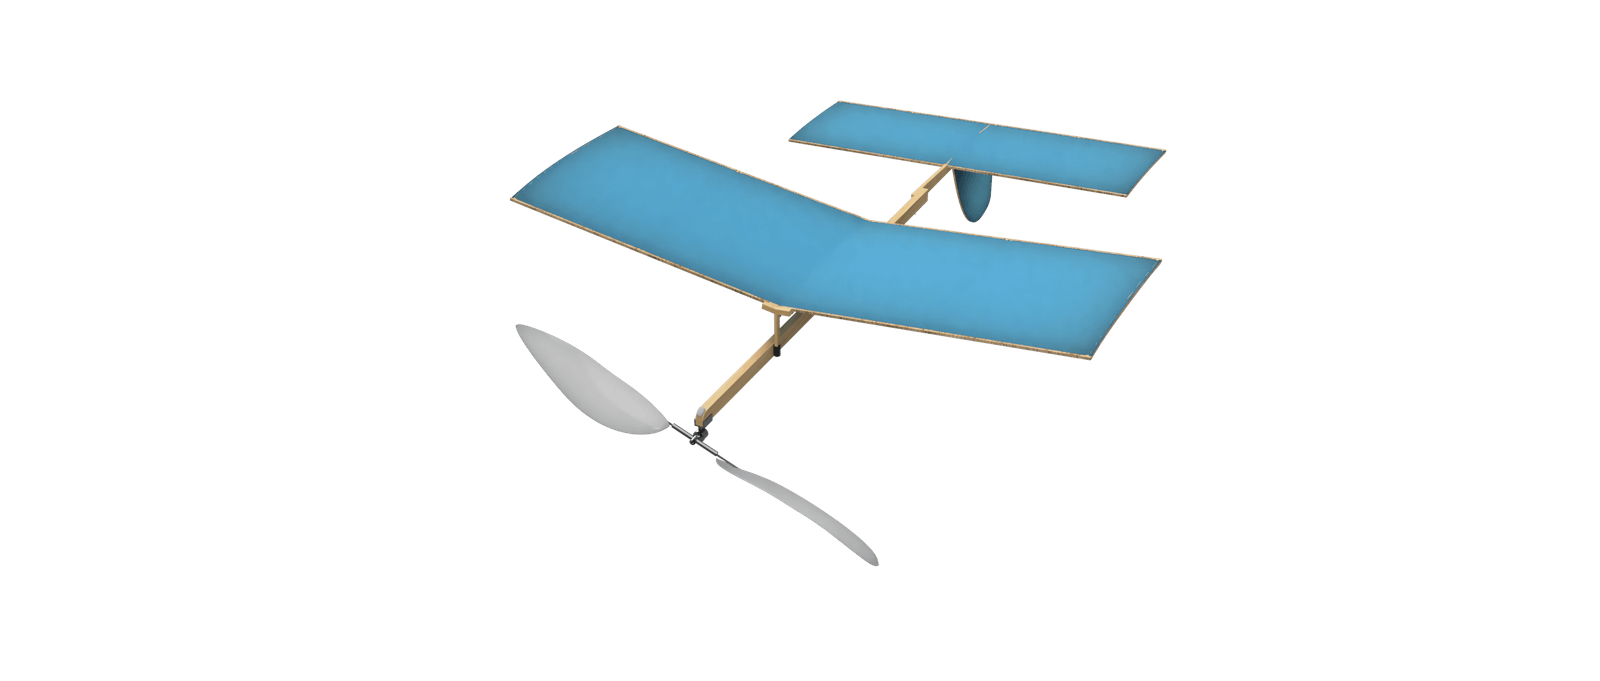
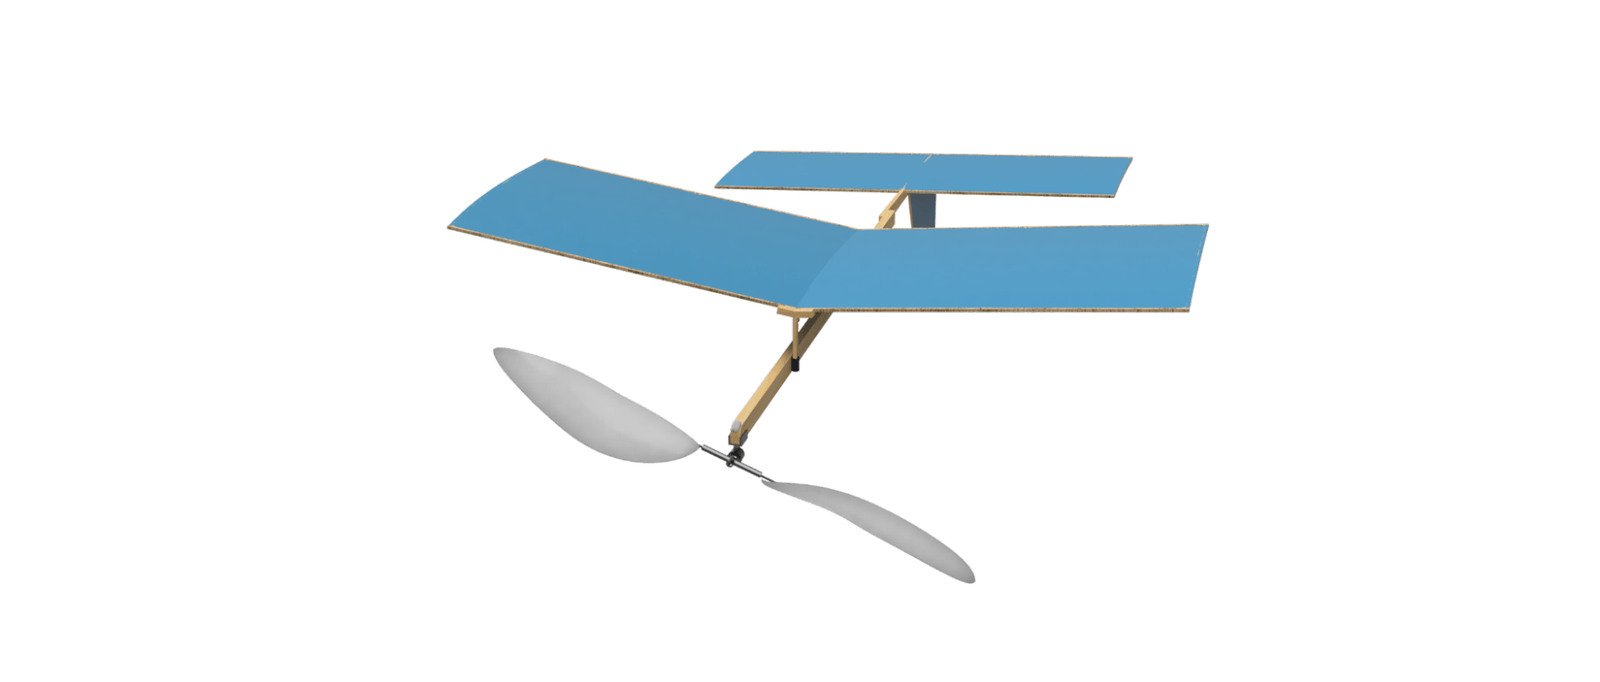
Use re-rendered kit images; show renders uncropped on cards

Changed region(s): [[0.2812, 0.1542, 0.7812, 0.8634]]

diff --git a/src/components/catalog/ProductCard.tsx b/src/components/catalog/ProductCard.tsx
@@ -13,8 +13,8 @@ export function ProductCard({ product }: { product: Product }) {
       className="group flex flex-col overflow-hidden rounded-lg border bg-card transition hover:shadow-md"
       data-testid="product-card"
     >
-      <div className="relative aspect-[4/3] bg-muted">
-        <Image src={product.images[0].src} alt={product.images[0].alt} fill sizes="(min-width: 768px) 33vw, 100vw" className="object-cover" />
+      <div className="relative aspect-[4/3] bg-white">
+        <Image src={product.images[0].src} alt={product.images[0].alt} fill sizes="(min-width: 768px) 33vw, 100vw" className="object-contain" />
         {soldOut && <Badge variant="secondary" className="absolute left-2 top-2">Sold out</Badge>}
       </div>
       <div className="flex flex-1 flex-col gap-1 p-4">
